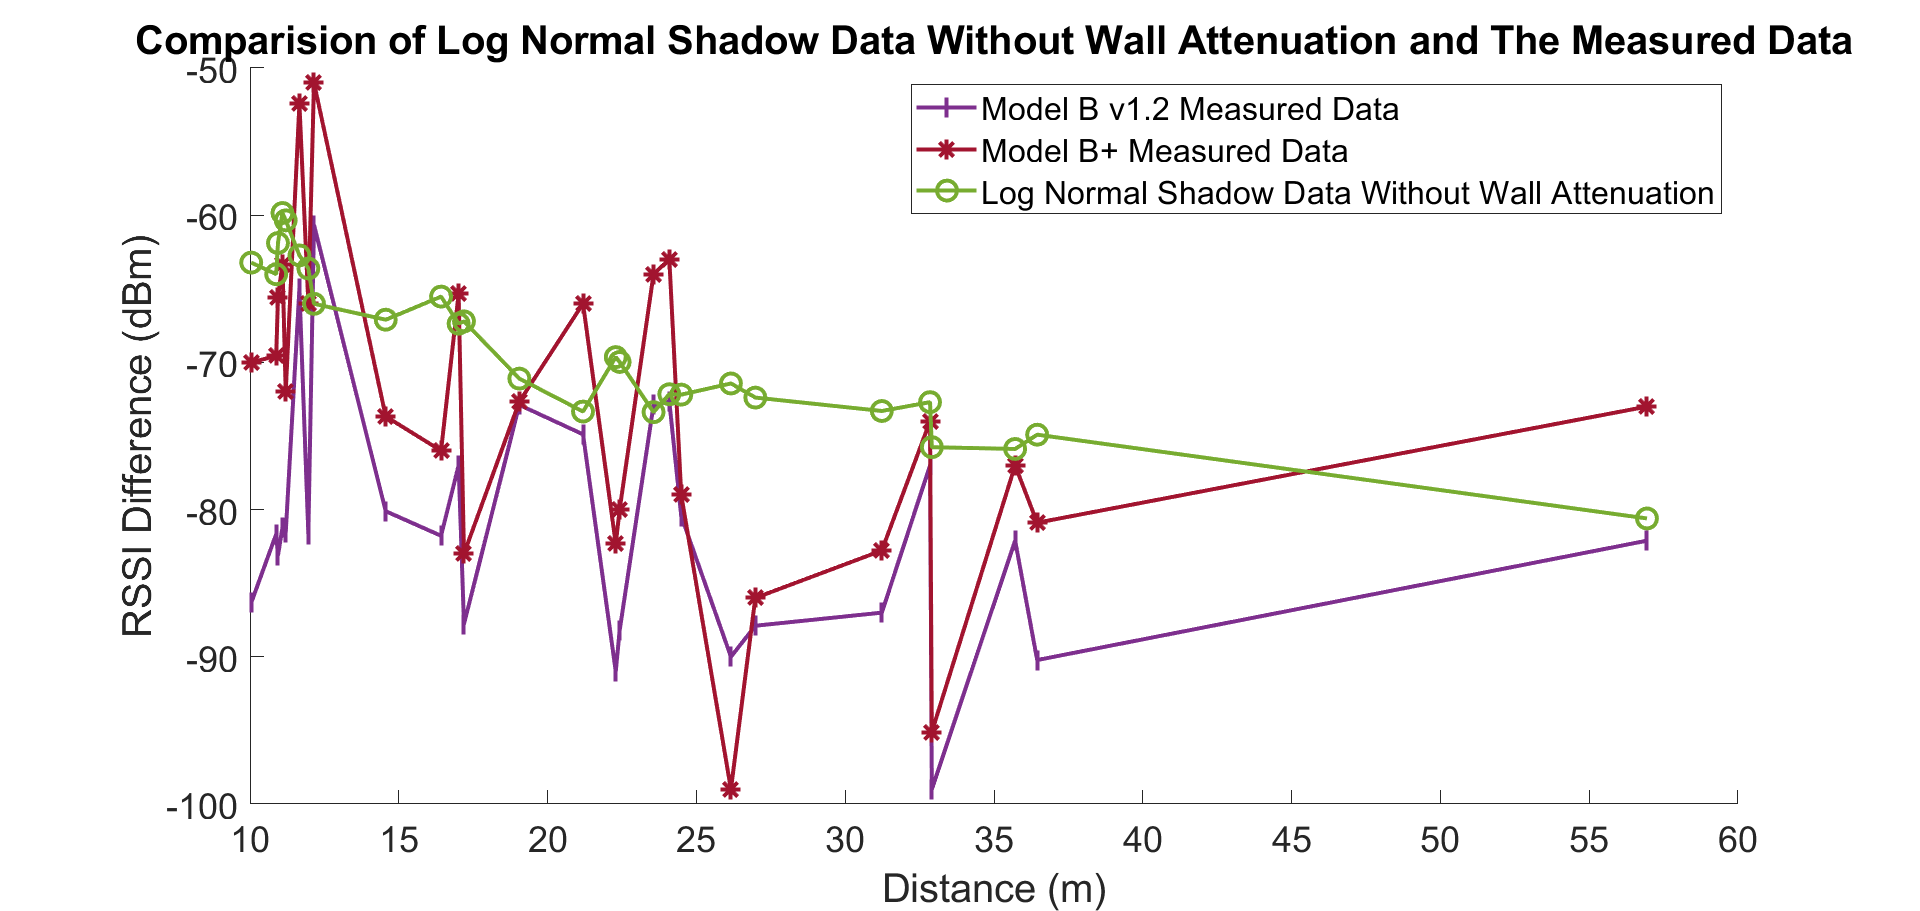
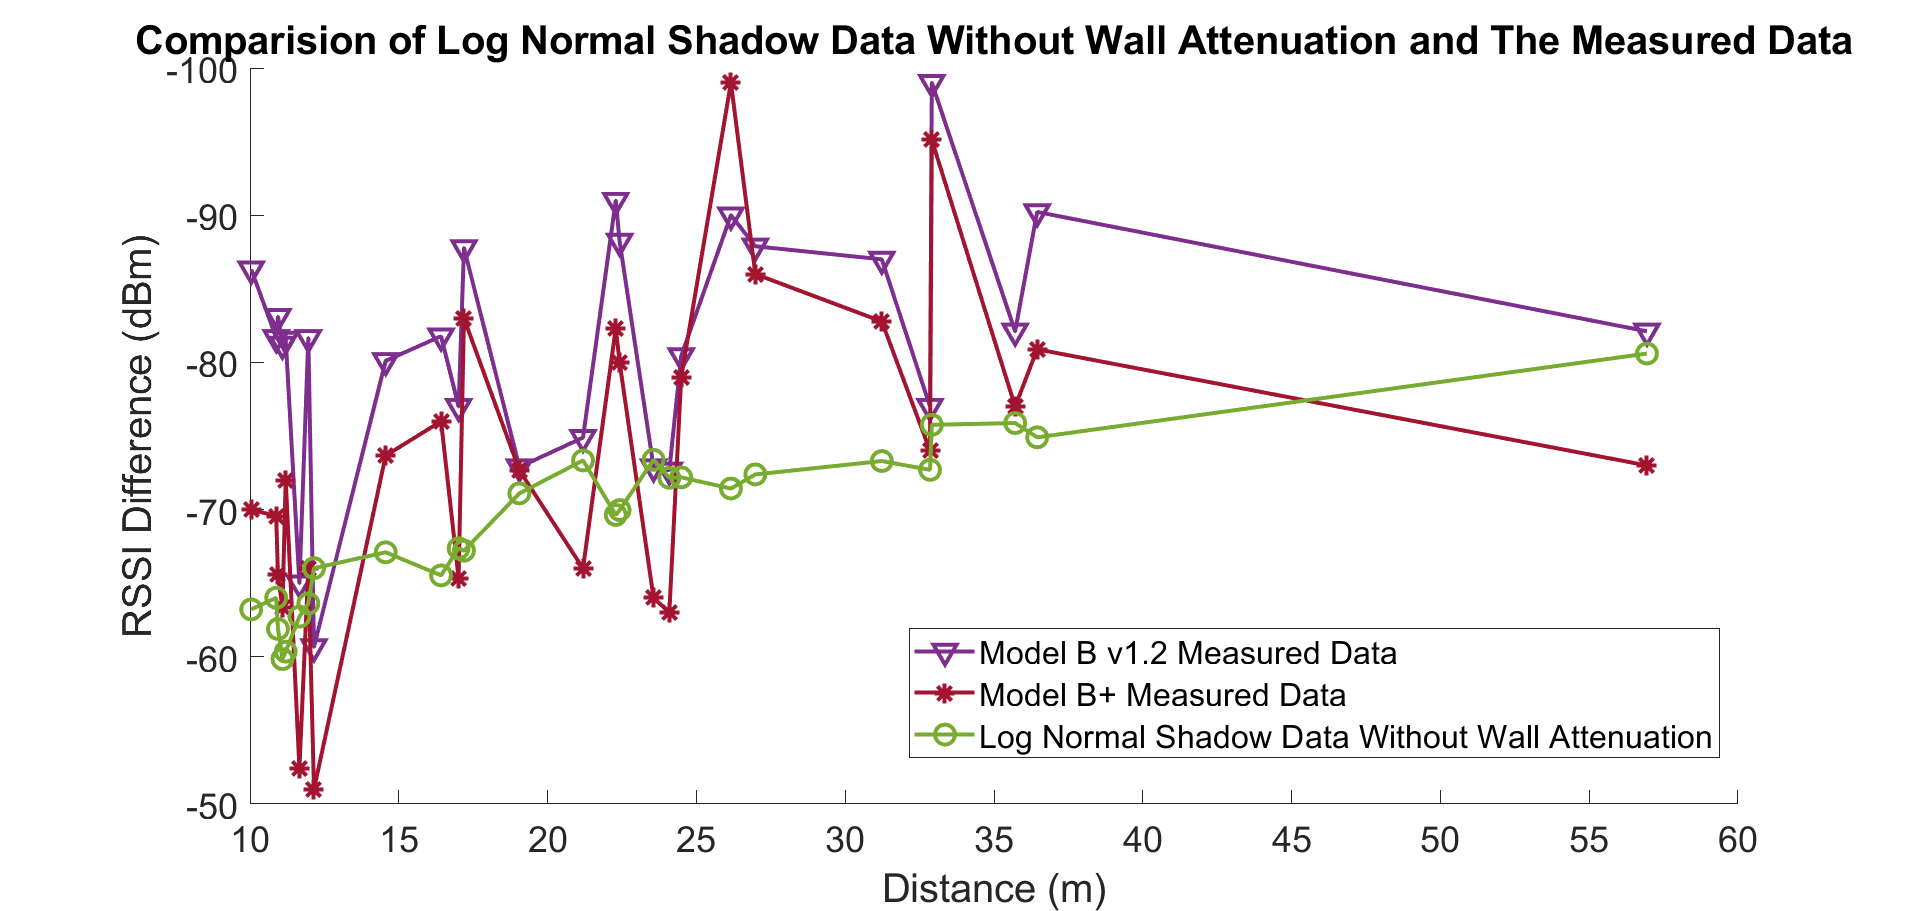
LogWithoutWallWithMeasureData.png flipped

diff --git a/PlotRCV.m b/PlotRCV.m
@@ -175,29 +175,8 @@ ylabel('RSSI Difference (dBm)')
 % 
 % %%%%%%%%%%%%%%%%%%%%%%%%%%%%%%%%%%%%%%%%%%%%%%%%%%%%%%
 
-% %%%%%%%%%%%%%%%%%%%%%%%%%%%%%%%%%%%%%%%%%%%%%%%%%%%%%%
-% %% Figure Chap4.2 B, model without wall, real data
-% hold on
-% 
-% % 
-% plot(k_distance_a, k_rcv_rssi_pi_a, '-v','LineWidth',2,'MarkerSize',10, 'Color',"#7E2F8E")
-% 
-% % 
-% plot(k_distance_a, k_rcv_rssi_pi_b, '-*','LineWidth',2,'MarkerSize',10,'Color',"#A2142F")
-% 
-% plot(k_distance_a, k_log_est_a, '-o','LineWidth',2,'MarkerSize',10,'Color',"#77AC30")
-% 
-% 
-% 
-% %% legend will not work in other places!
-% %% error: Warning "Ignoring extra legend entries"
-% legend('Model B v1.2 Measured Data', 'Model B+ Measured Data', 'Log Normal Shadow Data Without Wall Attenuation','northeast' );
-% title('Comparision of Log Normal Shadow Data Without Wall Attenuation and The Measured Data')
-% 
-% %%%%%%%%%%%%%%%%%%%%%%%%%%%%%%%%%%%%%%%%%%%%%%%%%%%%%%
-
 %%%%%%%%%%%%%%%%%%%%%%%%%%%%%%%%%%%%%%%%%%%%%%%%%%%%%%
-%% Figure Chap4.3 B, ITU model without wall, real data
+%% Figure Chap4.2 B, model without wall, real data
 hold on
 
 % 
@@ -206,37 +185,57 @@ plot(k_distance_a, k_rcv_rssi_pi_a, '-v','LineWidth',2,'MarkerSize',10, 'Color',
 % 
 plot(k_distance_a, k_rcv_rssi_pi_b, '-*','LineWidth',2,'MarkerSize',10,'Color',"#A2142F")
 
-plot(k_distance_a, k_itu_est_a, '-o','LineWidth',2,'MarkerSize',10,'Color',"#EDB120")
+plot(k_distance_a, k_log_est_a, '-o','LineWidth',2,'MarkerSize',10,'Color',"#77AC30")
 
 
-set(gca, 'YDir','reverse')
-
-% set(gca, 'YDir','reverse')
-ax = gca;
-ax.FontSize = 18;
-% plot(distance, itu_diff, '-o')
-% set(gca, 'YDir','reverse')
-
-
-
-
-% display(distance)
-% display(rcv_power)
-% display(distance2)
-% display(rcv_power2)
 
 %% legend will not work in other places!
 %% error: Warning "Ignoring extra legend entries"
-legend('Model B v1.2 Measured Data', 'Model B+ Measured Data', 'Log Normal Shadow Data Without Wall Attenuation','southeast' );
-title('Comparision of ITU Model Without Wall Attenuation and The Measured Data')
-
-
-hold off
-
-
-
+legend('Model B v1.2 Measured Data', 'Model B+ Measured Data', 'Log Normal Shadow Data Without Wall Attenuation','southheast' );
+title('Comparision of Log Normal Shadow Data Without Wall Attenuation and The Measured Data')
 
 %%%%%%%%%%%%%%%%%%%%%%%%%%%%%%%%%%%%%%%%%%%%%%%%%%%%%%
+
+% %%%%%%%%%%%%%%%%%%%%%%%%%%%%%%%%%%%%%%%%%%%%%%%%%%%%%%
+% %% Figure Chap4.3 B, ITU model without wall, real data
+% %% need manual adjust of legend
+% hold on
+% 
+% % 
+% plot(k_distance_a, k_rcv_rssi_pi_a, '-v','LineWidth',2,'MarkerSize',10, 'Color',"#7E2F8E")
+% 
+% % 
+% plot(k_distance_a, k_rcv_rssi_pi_b, '-*','LineWidth',2,'MarkerSize',10,'Color',"#A2142F")
+% 
+% plot(k_distance_a, k_itu_est_a, '-o','LineWidth',2,'MarkerSize',10,'Color',"#EDB120")
+% 
+% 
+% set(gca, 'YDir','reverse')
+% 
+% % set(gca, 'YDir','reverse')
+% ax = gca;
+% ax.FontSize = 18;
+% % plot(distance, itu_diff, '-o')
+% % set(gca, 'YDir','reverse')
+% 
+% 
+% 
+% 
+% % display(distance)
+% % display(rcv_power)
+% % display(distance2)
+% % display(rcv_power2)
+% 
+% %% legend will not work in other places!
+% %% error: Warning "Ignoring extra legend entries"
+% legend('Model B v1.2 Measured Data', 'Model B+ Measured Data', 'Log Normal Shadow Data Without Wall Attenuation','southeast' );
+% title('Comparision of ITU Model Without Wall Attenuation and The Measured Data')
+% 
+% 
+% hold off
+% 
+% 
+% %%%%%%%%%%%%%%%%%%%%%%%%%%%%%%%%%%%%%%%%%%%%%%%%%%%%%%
 
 
 set(gca, 'YDir','reverse')
